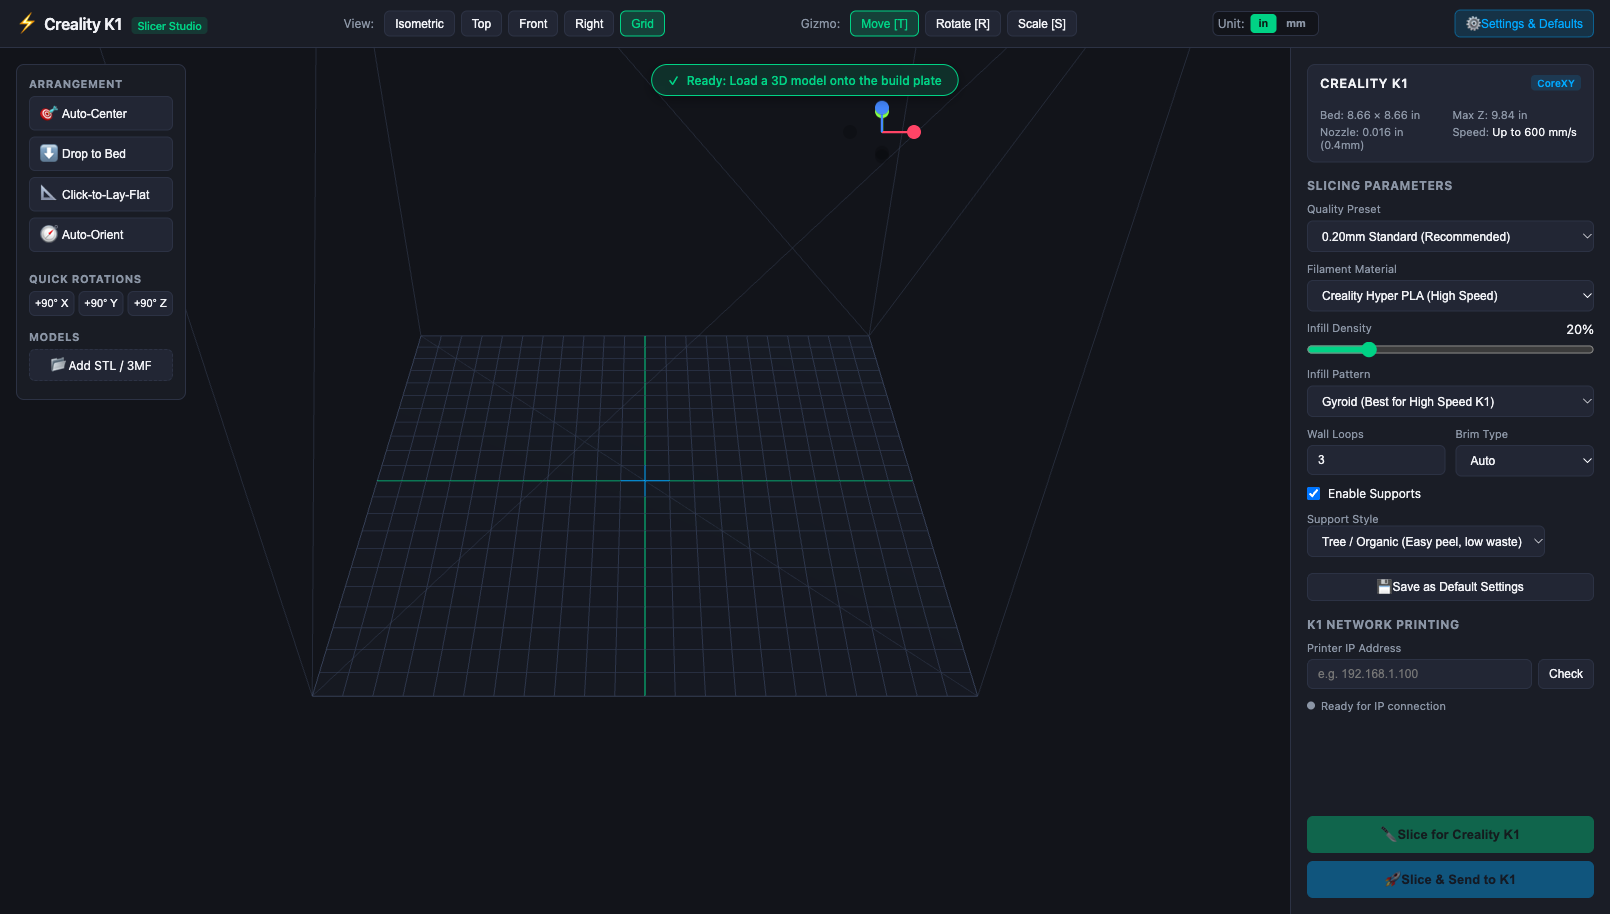
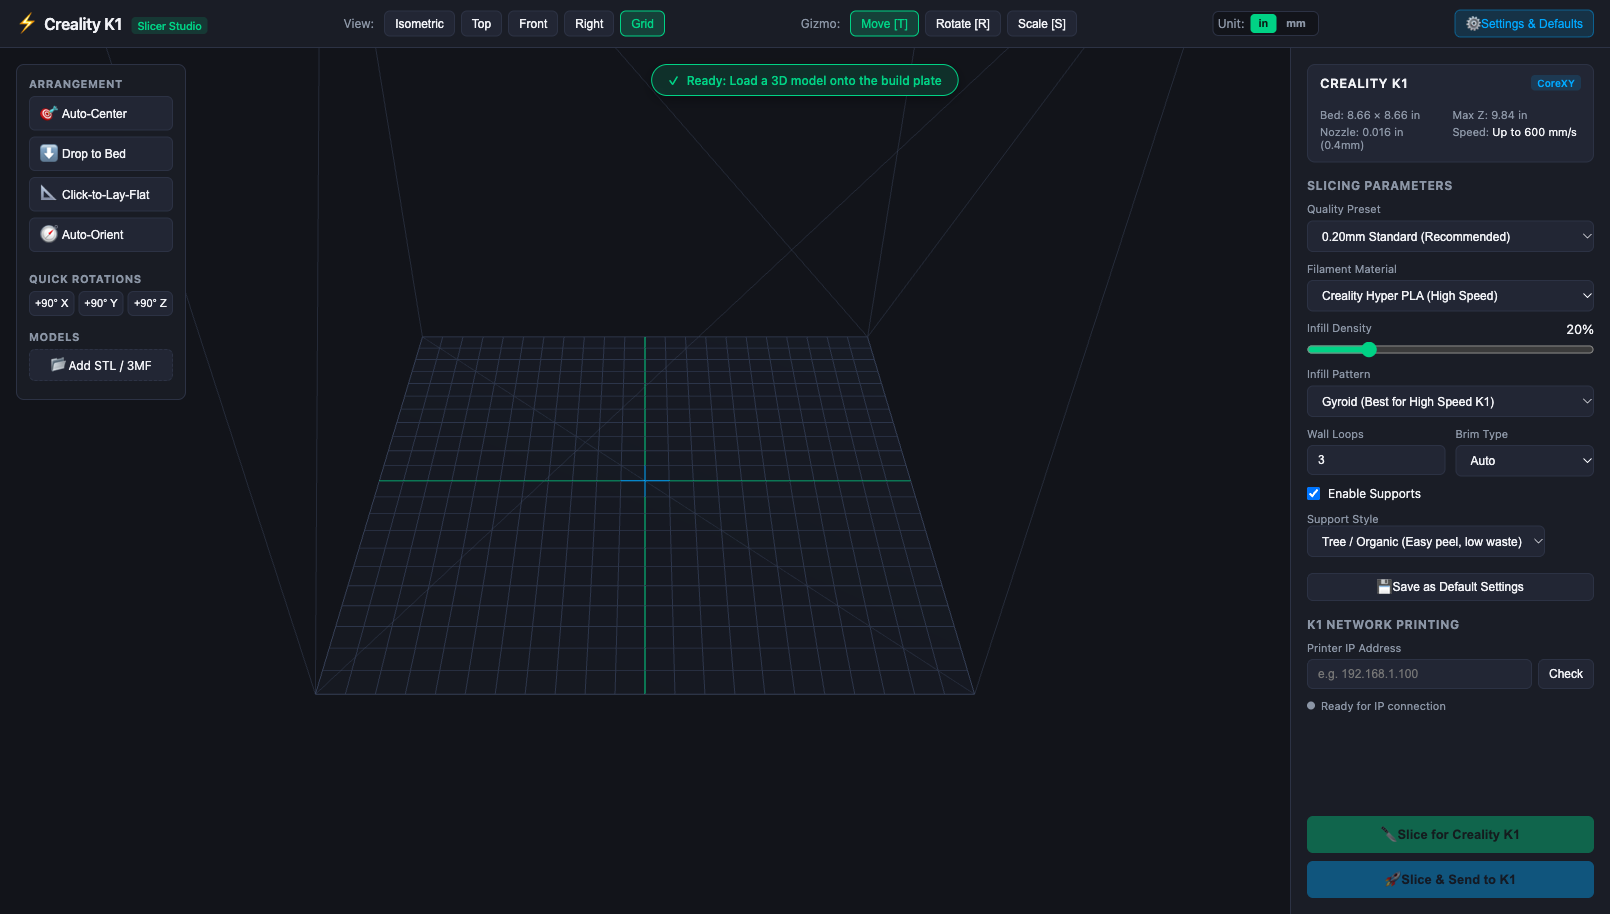
refactor: remove axis visualizer from 3D studio and refresh screenshots

diff --git a/src/web/app.js b/src/web/app.js
@@ -3,7 +3,6 @@ import { OrbitControls } from 'three/addons/controls/OrbitControls.js';
 import { TransformControls } from 'three/addons/controls/TransformControls.js';
 import { STLLoader } from 'three/addons/loaders/STLLoader.js';
 import { STLExporter } from 'three/addons/exporters/STLExporter.js';
-import { ViewHelper } from 'three/addons/helpers/ViewHelper.js';
 
 // K1 Physical Specifications
 const BED_SIZE_X = 220;
@@ -14,7 +13,6 @@ const BED_CENTER_Y = BED_SIZE_Y / 2;
 
 // App State
 let scene, camera, renderer, orbitControls, transformControls;
-let viewHelper, clock;
 let currentUnit = 'inches'; // default to inches as requested
 let models = [];
 let selectedModel = null;
@@ -89,11 +87,6 @@ function init() {
   });
   scene.add(transformControls.getHelper());
 
-  // 3-Axis Orientation ViewHelper (Blender/Shapr3D style in top right of 3D viewport)
-  clock = new THREE.Clock();
-  viewHelper = new ViewHelper(camera, renderer.domElement);
-  updateViewHelperPosition();
-
   // Lights
   setupLighting();
 
@@ -167,33 +160,17 @@ function setupBuildPlate() {
   scene.add(crosshair);
 }
 
-function updateViewHelperPosition() {
-  if (!viewHelper) return;
-  const rightPanel = document.querySelector('.right-panel');
-  const offsetRight = (rightPanel ? rightPanel.offsetWidth : 330) + 24;
-  viewHelper.location = { top: 20, right: offsetRight, bottom: null, left: null };
-}
-
 function onWindowResize() {
   const container = document.getElementById('canvas-container');
   camera.aspect = container.clientWidth / container.clientHeight;
   camera.updateProjectionMatrix();
   renderer.setSize(container.clientWidth, container.clientHeight);
-  updateViewHelperPosition();
 }
 
 function animate() {
   requestAnimationFrame(animate);
-  const delta = clock.getDelta();
   orbitControls.update();
-  renderer.autoClear = true;
   renderer.render(scene, camera);
-  renderer.autoClear = false;
-  renderer.clearDepth();
-  viewHelper.render(renderer);
-  if (viewHelper.animating) {
-    viewHelper.update(delta);
-  }
 }
 
 // ----------------- Model Management -----------------
@@ -326,11 +303,6 @@ function checkBoundaries() {
 // ----------------- Lay Flat on Click & Auto Orient -----------------
 
 function onCanvasPointerDown(event) {
-  // Check if click was on orientation ViewHelper (top-right gizmo)
-  if (viewHelper && viewHelper.handleClick(event)) {
-    return;
-  }
-
   const container = document.getElementById('canvas-container');
   const rect = container.getBoundingClientRect();
   mouse.x = ((event.clientX - rect.left) / container.clientWidth) * 2 - 1;

diff --git a/README.md b/README.md
@@ -241,16 +241,7 @@ k1-slice gear.stl --printer-ip 192.168.1.150 --print
 
 ---
 
-## 3D Plate Studio Controls & Visualizer
-
-### 🧭 3-Axis Orientation Visualizer (Blender / Shapr3D Style)
-Located in the **top-right corner** of the 3D viewport:
-- **Real-Time Axis Tracking:** Displays the current camera orientation with colored axis planes:
-  - **Red ($X$):** Left / Right axis.
-  - **Green ($Y$):** Front / Back bed depth axis.
-  - **Blue ($Z$):** Vertical height axis.
-- **Interactive Orbiting:** Click and drag anywhere on the gizmo to smoothly orbit the camera around the build plate.
-- **Orthogonal Snap:** Click any labeled axis sphere ($X, Y, Z$) to instantly snap the camera to that orthogonal projection.
+## 3D Plate Studio Controls & Units
 
 ### 📏 Inches & Millimeters Support
 - **Default in Inches:** All dimensions (K1 bed size: $8.66 \times 8.66 \times 9.84\text{ in}$, model dimensions, bounding limits) default to inches.

diff --git a/TUTORIAL.md b/TUTORIAL.md
@@ -103,10 +103,6 @@ Your default browser will open to `http://localhost:3125`:
 ![3D Plate Studio Overview](assets/studio_overview.png)
 
 ### Key Features of the Studio:
-- **🧭 Top-Right 3-Axis Orientation Visualizer (Blender/Shapr3D Style):**
-  - Displays the active viewport orientation with colored axes: **Red ($X$)**, **Green ($Y$)**, and **Blue ($Z$)**.
-  - **Orbit Dragging:** Click and drag directly on the orientation gizmo to fluidly orbit around the build plate.
-  - **Axis Snapping:** Click any axis sphere to snap the camera into an exact orthogonal view (Isometric, Top, Front, Right).
 - **📏 Inches as Default Measurement Unit:**
   - Designed for makers who prefer imperial units: the bed size ($8.66 \times 8.66 \times 9.84\text{ in}$), model dimensions, and boundary alerts display in inches by default.
   - **Unit Toggle:** Easily flip between `in` and `mm` using the toggle buttons in the top navigation bar.
